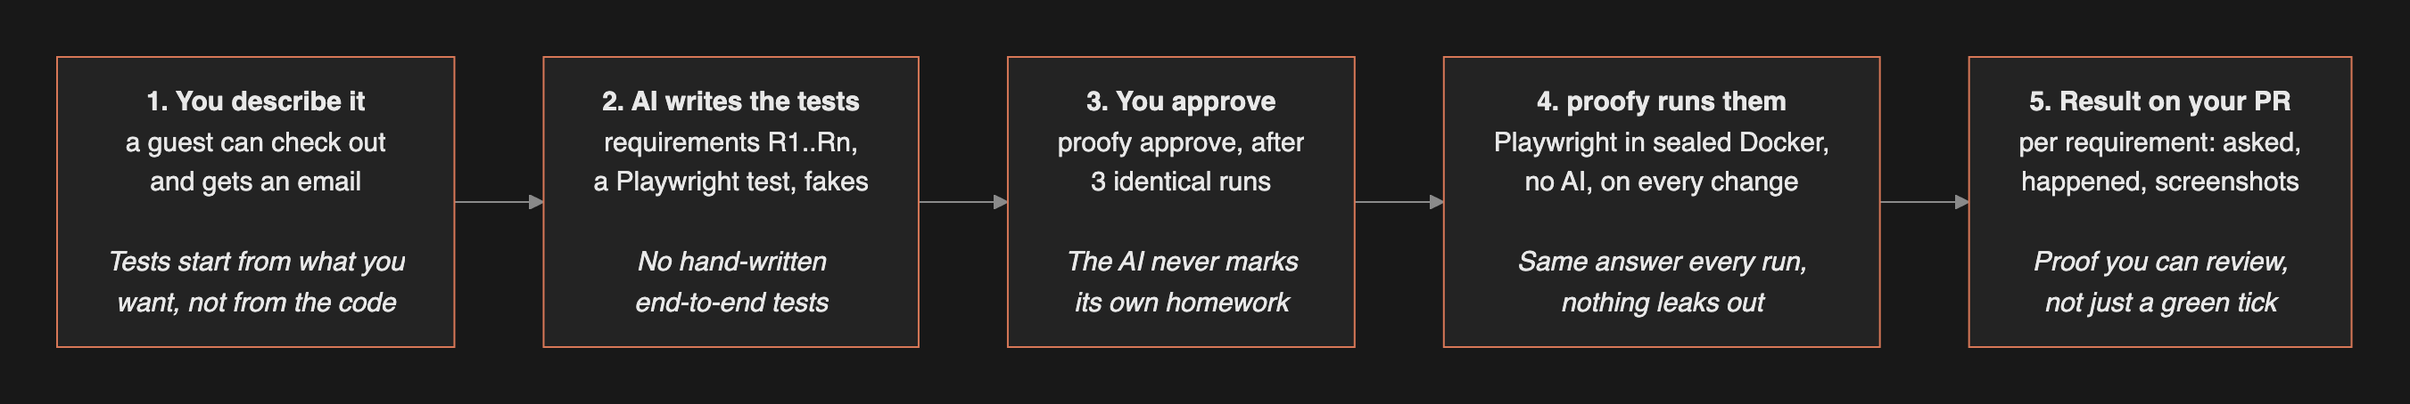
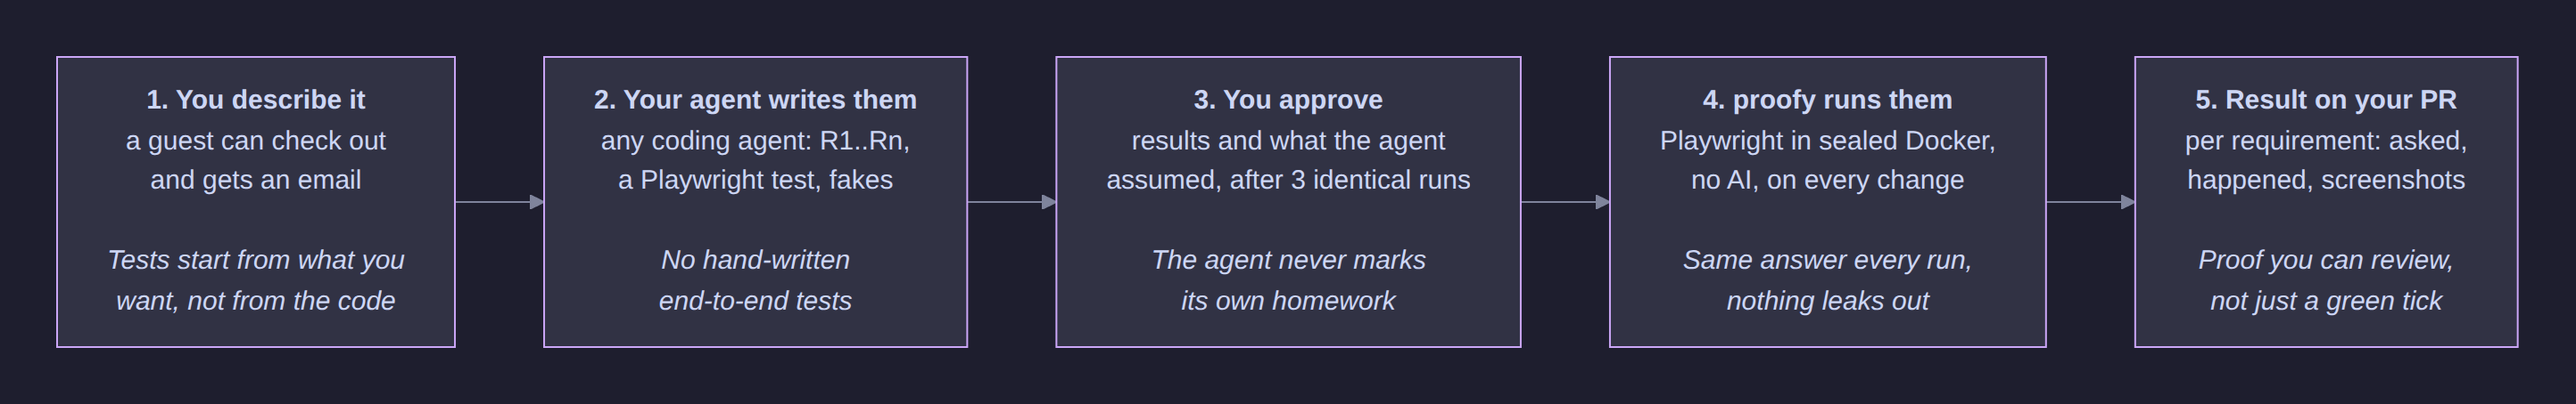
Redo the overview GIF with a nameless agent in a plain terminal
The demo no longer looks like one vendor's agent: a plain Catppuccin
terminal where proofy init runs, then any CLI agent takes one sentence
and works without questions, listing its assumptions. The person runs
proofy approve and sees the review screen, then a sealed run posts on
the PR. The flow diagram drops the vendor colour and says any coding
agent. 10 fps and a flat palette keep the GIF at 4.2 MB.

diff --git a/docs/overview/overview.html b/docs/overview/overview.html
@@ -4,179 +4,161 @@
 <meta charset="utf-8">
 <title>proofy overview</title>
 <style>
+  /* Catppuccin Mocha: a plain terminal, no window, no agent branding. */
   :root {
-    --bg: #0b0b0c; --term: #181818; --bar: #252526; --text: #e8e8e8; --dim: #8a8a8a;
-    --claude: #d77757; --green: #4eba65; --red: #ff6b80; --yellow: #e5c07b; --blue: #7aa7f7; --bash: #fd5db1;
-    --mono: "SF Mono", Menlo, Consolas, monospace;
+    --base: #1e1e2e; --text: #cdd6f4; --dim: #7f849c; --surface: #313244;
+    --green: #a6e3a1; --red: #f38ba8; --yellow: #f9e2af; --blue: #89b4fa; --mauve: #cba6f7; --teal: #94e2d5; --peach: #fab387;
+    --mono: "JetBrains Mono", "SF Mono", Menlo, Consolas, monospace;
   }
   * { box-sizing: border-box; margin: 0; }
-  body { width: 960px; height: 540px; overflow: hidden; background: radial-gradient(circle at 50% 0%, #2a1d17, var(--bg) 70%);
-    color: var(--text); font: 15px/1.4 -apple-system, "Segoe UI", Helvetica, Arial, sans-serif; }
-  #stage { position: relative; width: 960px; height: 540px; }
-
-  #win { position: absolute; left: 20px; top: 16px; width: 920px; height: 508px; background: var(--term);
-    border: 1px solid #333; border-radius: 10px; overflow: hidden; box-shadow: 0 18px 50px rgba(0,0,0,.55);
-    display: flex; flex-direction: column; }
-  #bar { height: 30px; background: var(--bar); display: flex; align-items: center; padding: 0 12px; position: relative; flex: none; }
-  #bar i { width: 12px; height: 12px; border-radius: 6px; margin-right: 8px; }
-  #bar span { position: absolute; left: 0; right: 0; text-align: center; font-size: 12px; color: var(--dim); }
-
-  #body { flex: 1; display: flex; flex-direction: column; padding: 10px 16px 8px; font: 13px/20px var(--mono); min-height: 0; }
-  #hist { flex: 1; overflow: hidden; position: relative; min-height: 0; }
+  body { width: 1100px; height: 650px; overflow: hidden; background: var(--base); color: var(--text); font: 15px/22px var(--mono); }
+  #stage { position: relative; width: 1100px; height: 650px; padding: 26px 30px; }
+  #hist { position: relative; width: 100%; height: 100%; overflow: hidden; -webkit-mask-image: linear-gradient(to bottom, transparent 0, #000 26px); mask-image: linear-gradient(to bottom, transparent 0, #000 26px); }
   #inner { position: absolute; left: 0; right: 0; top: 0; }
-  .l { white-space: pre; min-height: 20px; }
-  .welcome { border: 1px solid var(--claude); border-radius: 6px; padding: 6px 12px; width: 470px; margin-bottom: 10px; }
-  .user { color: var(--dim); background: #232323; margin: 6px 0; }
-  .bang { color: var(--bash); background: #232323; margin: 6px 0; }
-  .gap { margin-top: 8px; }
+  .l { white-space: pre; min-height: 22px; }
+  .gap { margin-top: 10px; }
   .dim { color: var(--dim); } .g { color: var(--green); } .r { color: var(--red); } .y { color: var(--yellow); }
-  .c { color: var(--claude); } .bl { color: var(--blue); } .bold { font-weight: 700; }
-
-  #input { flex: none; margin-top: 6px; }
-  #box { border: 1px solid #555; border-radius: 6px; padding: 6px 10px; white-space: pre; }
-  #box.bash { border-color: var(--bash); }
-  #box.bash #prefix { color: var(--bash); }
-  #cursor { display: inline-block; width: 8px; height: 16px; background: var(--text); vertical-align: -3px; }
-  #hint { color: var(--dim); font-size: 12px; padding: 3px 10px 0; display: flex; justify-content: space-between; }
-
+  .b { color: var(--blue); } .m { color: var(--mauve); } .t { color: var(--teal); } .p { color: var(--peach); } .bold { font-weight: 700; }
+  #cursor { display: inline-block; width: 9px; height: 18px; background: #f5e0dc; vertical-align: -4px; }
 </style>
 </head>
 <body>
-<div id="stage">
-  <div id="win">
-    <div id="bar"><i style="background:#ff5f57"></i><i style="background:#febc2e"></i><i style="background:#28c840"></i><span>~/shop - claude</span></div>
-    <div id="body">
-      <div id="hist"><div id="inner"></div></div>
-      <div id="input">
-        <div id="box"><span id="prefix">&gt; </span><span id="typed"></span><span id="cursor"></span></div>
-        <div id="hint"><span id="hintl">? for shortcuts</span></div>
-      </div>
-    </div>
-  </div>
-</div>
+<div id="stage"><div id="hist"><div id="inner"></div></div></div>
 
 <script>
-const DURATION = 28.75;
-const OK = "✓", BULLET = "●", ELBOW = "⎿", ARROW = "→";
+const DURATION = 45;
+const OK = "✓", FAIL = "✗", DOT = "•";
 
-// What the person types into the prompt box; it lands in the history at `send`.
-const TYPING = [
-  { from: 0.4, to: 2.3, send: 2.6, mode: "prompt", text: "add a proofy test: a guest can buy a product and gets a confirmation email" },
-  { from: 4.8, to: 5.9, send: 6.2, mode: "prompt", text: "processing, within 30 seconds, nobody but the guest and the shop" },
-  { from: 16.4, to: 17.3, send: 17.6, mode: "bash", text: "proofy approve guest-checkout" },
-  { from: 19.2, to: 20.4, send: 20.7, mode: "prompt", text: "I changed the checkout. check every approved flow on PR 42" },
+// Prompts: the shell's, and a coding agent's. Any agent works; this one has no name on purpose.
+const SHELL = `<span class="b">&gt;</span> `;
+const AGENT = `<span class="m">›</span> `;
+const act = (verb, arg, note = "") => `<span class="m">${DOT}</span> <span class="bold">${verb}</span> ${arg}${note ? `  <span class="dim">${note}</span>` : ""}`;
+const sub = (html) => `    ${html}`;
+
+// Each line appears at `at`; `until` hides it again. A line with `type` is typed out between `at` and `to` after its prompt.
+// A line with `spin` is a spinner until `until`.
+const LINES = [
+  // proofy init: what it found and what it wrote.
+  { at: 0.3, to: 1.2, prompt: SHELL, type: "proofy init" },
+  { at: 1.6, cls: "gap", html: `<span class="bold">proofy init</span>  ~/shop` },
+  { at: 1.75, cls: "gap", html: `<span class="bold">FOUND</span>` },
+  { at: 1.85, html: `  compose.yml: services web, db` },
+  { at: 1.95, html: `  app: likely web on port 80` },
+  { at: 2.05, html: `  .env.example: 14 settings, 3 secret-looking values replaced with fakes` },
+  { at: 2.15, html: `  recorded: www.googletagmanager.com <span class="dim">(analytics: the app does not need their answer)</span>` },
+  { at: 2.25, html: `  outside hosts for your agent to fake or record: api.shipping.example` },
+  { at: 2.45, cls: "gap", html: `<span class="bold">WROTE</span>` },
+  { at: 2.55, html: `  <span class="g">${OK}</span> e2e/proofy.json   <span class="g">${OK}</span> e2e/AGENTS.md   <span class="g">${OK}</span> e2e/templates/   <span class="g">${OK}</span> AGENTS.md (pointer)` },
+  { at: 2.75, cls: "gap", html: `<span class="bold">NEXT</span>` },
+  { at: 2.85, html: `  Tell your agent what to test, in plain words: "add a proofy test: ..."` },
+
+  // Any coding agent: it reads e2e/AGENTS.md and works without stopping to ask.
+  { at: 4.6, to: 5.9, cls: "gap", prompt: SHELL, type: "# any coding agent works" },
+  { at: 6.2, to: 6.6, prompt: SHELL, type: "agent" },
+  { at: 6.9, cls: "gap", html: `<span class="dim">agent  ~/shop</span>` },
+  { at: 7.2, to: 9.6, cls: "gap", prompt: AGENT, type: "add a proofy test: a guest can buy a product and gets a confirmation email" },
+  { at: 9.9, cls: "gap", html: act("read", "e2e/AGENTS.md") },
+  { at: 10.5, html: act("write", "e2e/specs/guest-checkout.md") },
+  { at: 10.7, html: sub(`<span class="y">R1</span> the thank-you page shows the order number`) },
+  { at: 10.85, html: sub(`<span class="y">R2</span> the order is stored as "processing", 249.00 SEK`) },
+  { at: 11.0, html: sub(`<span class="y">R3</span> the guest gets exactly one confirmation email`) },
+  { at: 11.15, html: sub(`<span class="y">R4</span> stock goes down by one`) },
+  { at: 11.3, html: sub(`<span class="r">R5</span> never: an email to anyone but the guest`) },
+  { at: 11.45, html: sub(`<span class="p">assumed</span> pays by bank transfer, ships to Sweden`) },
+  { at: 12.0, html: act("run", "proofy dev up", "built, sealed, seeded") },
+  { at: 12.6, html: act("write", "e2e/tests/guest-checkout.spec.ts") },
+  { at: 13.1, html: act("write", "e2e/standins/api.shipping.example.mjs", "from the provider's public docs") },
+  { at: 13.7, until: 15.6, spin: "proofy dev test guest-checkout" },
+  { at: 15.6, html: act("run", "proofy dev test guest-checkout", "3 of 3 runs identical") },
+  { at: 16.2, until: 17.4, spin: "second opinion" },
+  { at: 17.4, html: act("check", "second opinion", "tightened R3 to exactly one email") },
+  { at: 18.1, cls: "gap", html: `Ready for you to approve. I assumed:` },
+  { at: 18.3, html: `  <span class="p">!</span> the guest pays by bank transfer` },
+  { at: 18.45, html: `  <span class="p">!</span> shipping goes to Sweden, so the total includes 49.00 SEK` },
+  { at: 18.7, html: `Correct me in one sentence, or run <span class="b">proofy approve guest-checkout</span>` },
+  { at: 20.6, to: 21.0, cls: "gap", prompt: AGENT, type: "exit" },
+
+  // Only the person approves, after one review screen.
+  { at: 21.6, to: 23.1, cls: "gap", prompt: SHELL, type: "proofy approve guest-checkout" },
+  { at: 23.5, cls: "gap", html: `<span class="bold">Review guest-checkout before you approve it</span>` },
+  { at: 23.65, cls: "gap", html: `Requirements, the same in each of the last 3 runs:` },
+  { at: 23.75, html: `  <span class="g">${OK}</span> R1 the thank-you page shows the order number` },
+  { at: 23.85, html: `  <span class="g">${OK}</span> R2 the order is stored as "processing", 249.00 SEK` },
+  { at: 23.95, html: `  <span class="g">${OK}</span> R3 the guest gets exactly one confirmation email` },
+  { at: 24.05, html: `  <span class="g">${OK}</span> R4 stock goes down by one` },
+  { at: 24.15, html: `  <span class="g">${OK}</span> R5 never: an email to anyone but the guest` },
+  { at: 24.35, cls: "gap", html: `<span class="y">Assumed by the agent, not said by you:</span>` },
+  { at: 24.45, html: `  <span class="y">!</span> the guest pays by bank transfer` },
+  { at: 24.55, html: `  <span class="y">!</span> shipping goes to Sweden, so the total includes 49.00 SEK` },
+  { at: 24.75, cls: "gap", html: `Evidence and screenshots: e2e/out/20261020-091200/report.md` },
+  { at: 24.95, cls: "gap", html: `Approving trusts the requirements, test and fakes, e2e/proofy.json and the compose files as they are now.` },
+  { at: 25.05, html: `Anything wrong? Press Enter, tell your agent in one sentence, and approve once it has proven the flow again.` },
+  { at: 26.6, to: 27.8, prompt: `Type guest-checkout to approve it: `, type: "guest-checkout" },
+  { at: 28.1, html: `flow: guest-checkout` },
+  { at: 28.15, html: `state: <span class="g">approved</span>` },
+  { at: 28.25, html: `<span class="dim">Commit e2e/proofy.lock.json with the flow's files</span>` },
+
+  // Every run after that: sealed, no AI, evidence per requirement, posted on the pull request.
+  { at: 30.0, to: 31.6, cls: "gap", prompt: SHELL, type: "proofy run --all --pr 42 --post" },
+  { at: 31.9, until: 33.0, html: `<span class="dim">fetching PR 42, building the images (online)</span>` },
+  { at: 33.0, until: 34.0, html: `<span class="dim">network sealed: no AI, no internet</span>` },
+  { at: 34.0, until: 35.3, spin: "guest-checkout in a fresh sandbox" },
+  { at: 35.3, cls: "gap", html: `<span class="g bold">PASS  every requirement of every approved flow held</span>` },
+  { at: 35.4, html: `<span class="dim">run 20261020-091512  e2e/out/20261020-091512</span>` },
+  { at: 35.7, cls: "gap", html: `<span class="bold">guest-checkout</span>  <span class="g">passed</span>` },
+  { at: 35.9, html: `  <span class="g">${OK}</span> R1   the thank-you page shows the order number` },
+  { at: 36.05, html: `  <span class="g">${OK}</span> R2   the order is stored as "processing", 249.00 SEK` },
+  { at: 36.2, html: `  <span class="g">${OK}</span> R3   the guest gets exactly one confirmation email` },
+  { at: 36.35, html: `  <span class="g">${OK}</span> R4   stock goes down by one` },
+  { at: 36.5, html: `  <span class="g">${OK}</span> R5   never: an email to anyone but the guest` },
+  { at: 36.9, cls: "gap", html: `<span class="bold">OUTSIDE CALLS</span>` },
+  { at: 37.0, html: `  api.shipping.example fake x2, www.googletagmanager.com record x1` },
+  { at: 37.4, cls: "gap", html: `posted on github.com/you/shop/pull/42` },
+  { at: 38.0, cls: "gap", prompt: SHELL, html: "" },
 ];
 
-const tool = (name, arg) => `<span class="g">${BULLET}</span> <span class="bold">${name}</span>(${arg})`;
-const out = (html) => `  <span class="dim">${ELBOW}</span>  ${html}`;
-const more = (html) => `     ${html}`;
-const say = (html) => `${BULLET} ${html}`;
-const untrusted = `<span class="y">NOT TRUSTED</span>  guest-checkout <span class="g">passed</span>  <span class="g">${OK} R1 ${OK} R2 ${OK} R3 ${OK} R4 ${OK} R5</span>  <span class="y">not approved</span>`;
-
-// Each history line appears at `at`; `until` hides it again; `spin` makes it a spinner line.
-const HISTORY = [
-  { at: 0, cls: "welcome", html: `<span class="c">✻</span> <b>Welcome to Claude Code!</b>\n\n  <span class="dim">/help for help, /status for your current setup\n\n  cwd: /Users/you/shop</span>` },
-  { at: 2.6, cls: "user", html: `&gt; ${TYPING[0].text}` },
-  { at: 2.7, until: 3.4, spin: "Proofing" },
-  { at: 3.4, cls: "gap", html: tool("Read", "e2e/AGENTS.md") },
-  { at: 3.5, html: out("Read 182 lines") },
-  { at: 3.9, cls: "gap", html: say("A few questions first, so every requirement is checkable:") },
-  { at: 4.1, html: "  1. Which order status counts as placed?" },
-  { at: 4.25, html: "  2. How fast must the email arrive?" },
-  { at: 4.4, html: "  3. Who must never receive it?" },
-  { at: 6.2, cls: "user", html: `&gt; ${TYPING[1].text}` },
-  { at: 6.3, until: 7.0, spin: "Writing requirements" },
-  { at: 7.0, cls: "gap", html: tool("Write", "e2e/specs/guest-checkout.md") },
-  { at: 7.1, html: out("Wrote 18 lines") },
-  { at: 7.25, html: more(`<span class="y">R1.</span> The confirmation page shows the stored order's number`) },
-  { at: 7.4, html: more(`<span class="y">R2.</span> The order is stored with status "processing"`) },
-  { at: 7.55, html: more(`<span class="y">R3.</span> Within 30 seconds the guest gets exactly one email`) },
-  { at: 7.7, html: more(`<span class="y">R4.</span> Stock for the product goes down by exactly one`) },
-  { at: 7.85, html: more(`<span class="r">R5.</span> Never: mail to anyone but the guest or the shop`) },
-  { at: 8.3, cls: "gap", html: tool("Bash", "proofy dev up") },
-  { at: 8.4, until: 9.4, html: out(`<span class="dim">Running... docker compose build, then the sandbox seals its network</span>`) },
-  { at: 9.4, html: out(`dev sandbox shop-dev started, sealed`) },
-  { at: 9.5, html: more(`  app      http://localhost:8080`) },
-  { at: 9.6, html: more(`  mailpit  http://localhost:8025`) },
-  { at: 10.1, cls: "gap", html: tool("Write", "e2e/tests/guest-checkout.spec.ts") },
-  { at: 10.2, html: out(`<span class="c">await</span> claim({ spec: <span class="bl">"R2"</span>, expected: <span class="bl">"processing"</span>, actual: order.status })`) },
-  { at: 10.8, cls: "gap", html: tool("Write", "e2e/standins/shipping.example.mjs") },
-  { at: 10.9, html: out("A fake written from the provider's public docs, not from your code") },
-  { at: 11.6, cls: "gap", html: tool("Bash", "proofy dev test guest-checkout") },
-  { at: 11.7, until: 12.3, html: out(`<span class="dim">Running...</span>`) },
-  { at: 12.3, html: out(untrusted) },
-  { at: 12.7, until: 14.1, spin: "Running it twice more" },
-  { at: 14.1, cls: "gap", html: say(`Runs 2 and 3 gave identical results. proofy needs 3 matching runs, so a flaky test can't be approved.`) },
-  { at: 14.8, cls: "gap", html: tool("Bash", "proofy") },
-  { at: 14.9, html: out(`guest-checkout  <span class="bl">ready, waiting for the human to approve</span>`) },
-  { at: 15.4, cls: "gap", html: say(`3 identical runs in the sealed sandbox. Read the spec, then approve it yourself:`) },
-  { at: 15.55, html: `  <span class="bl">! proofy approve guest-checkout</span>  <span class="dim">(I never approve my own tests)</span>` },
-  { at: 17.6, cls: "bang", html: `! ${TYPING[2].text}` },
-  { at: 17.9, html: out(`<span class="g">${OK} approved</span> guest-checkout`) },
-  { at: 18.1, html: more(`<span class="dim">Commit e2e/proofy.lock.json with the flow's files</span>`) },
-  { at: 20.7, cls: "user", html: `&gt; ${TYPING[3].text}` },
-  { at: 20.9, cls: "gap", html: tool("Bash", "proofy run --all --pr 42 --post") },
-  { at: 21.0, until: 22.0, html: out(`<span class="dim">Running... fetching PR 42, docker compose build (online)</span>`) },
-  { at: 22.0, until: 23.0, html: out(`<span class="dim">Running... network sealed: no AI, no internet</span>`) },
-  { at: 23.0, until: 24.2, html: out(`<span class="dim">Running... guest-checkout in a fresh sandbox</span>`) },
-  { at: 24.2, html: out(`<span class="g bold">PASS  every requirement of every approved flow held</span>`) },
-  { at: 24.3, html: more(`<span class="dim">run 20261020-091512  e2e/out/20261020-091512</span>`) },
-  { at: 24.6, cls: "gap", html: more(`<span class="bold">guest-checkout</span>  <span class="g">passed</span>`) },
-  { at: 24.9, html: more(`  <span class="g">${OK}</span> R1   confirmation page shows order #1042`) },
-  { at: 25.15, html: more(`  <span class="g">${OK}</span> R2   stored: processing, 120.00 SEK`) },
-  { at: 25.4, html: more(`  <span class="g">${OK}</span> R3   1 email after 4 s, shows #1042`) },
-  { at: 25.65, html: more(`  <span class="g">${OK}</span> R4   stock 12 ${ARROW} 11`) },
-  { at: 25.9, html: more(`  <span class="g">${OK}</span> R5   no mail to anyone else`) },
-  { at: 26.4, cls: "gap", html: more(`<span class="bold">OUTSIDE CALLS</span>`) },
-  { at: 26.6, html: more(`  shipping.example fake x2`) },
-  { at: 26.8, html: more(`  <span class="y">refused: tracker.example</span>`) },
-  { at: 27.2, cls: "gap", html: more(`posted on github.com/you/shop/pull/42`) },
-  { at: 27.9, cls: "gap", html: say(`All 5 requirements held in a sealed run. The report and screenshots are on PR #42.`) },
-];
-
-const SPINNER = ["·", "✢", "✳", "✶", "✻", "✽"];
+const SPINNER = ["⠋", "⠙", "⠹", "⠸", "⠼", "⠴", "⠦", "⠧", "⠇", "⠏"];
 const $ = (id) => document.getElementById(id);
 const clamp = (x) => Math.max(0, Math.min(1, x));
+const cursor = `<span id="cursor"></span>`;
 
 const inner = $("inner");
-const rows = HISTORY.map((entry) => {
+const rows = LINES.map((line) => {
   const el = document.createElement("div");
-  el.className = "l " + (entry.spin ? "gap" : entry.cls ?? "");
-  el.innerHTML = entry.html ?? "";
+  el.className = "l " + (line.cls ?? "");
   inner.appendChild(el);
   return el;
 });
 
 function render(t) {
-  HISTORY.forEach((entry, i) => {
-    const visible = t >= entry.at && (entry.until === undefined || t < entry.until);
-    rows[i].style.display = visible ? "" : "none";
-    if (visible && entry.spin) {
-      const glyph = SPINNER[Math.floor(t * 8) % SPINNER.length];
-      const secs = Math.floor(t - entry.at) + 1;
-      rows[i].innerHTML = `<span class="c">${glyph} ${entry.spin}...</span> <span class="dim">(${secs}s · esc to interrupt)</span>`;
+  const visible = LINES.map((line) => t >= line.at && (line.until === undefined || t < line.until));
+  const last = visible.lastIndexOf(true);
+  LINES.forEach((line, i) => {
+    rows[i].style.display = visible[i] ? "" : "none";
+    if (!visible[i]) return;
+    if (line.spin) {
+      rows[i].innerHTML = `<span class="m">${SPINNER[Math.floor(t * 12) % SPINNER.length]}</span> <span class="dim">${line.spin}</span>`;
+    } else if (line.prompt !== undefined) {
+      const text = line.type ?? "";
+      const shown = line.to === undefined ? text : text.slice(0, Math.round(text.length * clamp((t - line.at) / (line.to - line.at))));
+      // The cursor sits on the newest line while it is a prompt: solid while typing, blinking while it waits.
+      const typing = line.to !== undefined && t < line.to;
+      const blink = typing || Math.floor(t * 2) % 2 === 0;
+      rows[i].innerHTML = `${line.prompt}${shown.replace(/</g, "&lt;")}${i === last && blink ? cursor : ""}`;
+    } else {
+      rows[i].innerHTML = line.html;
     }
   });
   // Keep the newest line in view, like a terminal that scrolls.
   const overflow = inner.offsetHeight - $("hist").clientHeight;
   inner.style.transform = `translateY(${-Math.max(0, overflow)}px)`;
-
-  const typing = TYPING.find((x) => t >= x.from && t < x.send);
-  const bash = typing?.mode === "bash";
-  $("box").className = bash ? "bash" : "";
-  $("prefix").textContent = bash ? "! " : "> ";
-  $("hintl").textContent = bash ? "! for bash mode" : "? for shortcuts";
-  $("hintl").style.color = bash ? "var(--bash)" : "";
-  $("typed").textContent = typing ? typing.text.slice(0, Math.round(typing.text.length * clamp((t - typing.from) / (typing.to - typing.from)))) : "";
-  $("cursor").style.opacity = typing || Math.floor(t * 2) % 2 === 0 ? 1 : 0;
-
   // Fade the end into the start so the loop is smooth.
   $("stage").style.opacity = Math.min(clamp(t / 0.3), clamp((DURATION - t) / 0.4));
 }
 
 window.DURATION = DURATION;
 window.render = render;
-render(new URLSearchParams(location.search).has("t") ? Number(new URLSearchParams(location.search).get("t")) : 26);
+render(new URLSearchParams(location.search).has("t") ? Number(new URLSearchParams(location.search).get("t")) : 19);
 </script>
 </body>
 </html>

diff --git a/README.md b/README.md
@@ -56,7 +56,7 @@ See [`examples/woocommerce`](examples/woocommerce) for a complete shop with two 
 
 ## How it works
 
-![The proofy flow: you describe it, AI writes the tests, you approve, proofy runs them with Playwright in sealed Docker, and the result lands on your PR](docs/flow.png)
+![The proofy flow: you describe it, your coding agent writes the tests, you approve, proofy runs them with Playwright in sealed Docker, and the result lands on your PR](docs/flow.png)
 
 ## Trust model
 
